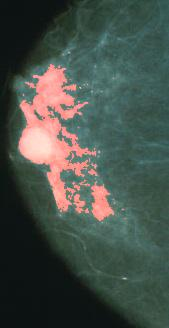
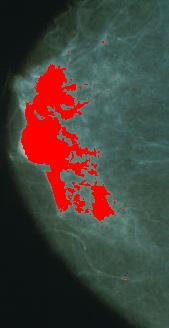
segmentacion se

Changed region(s): [[0.0888, 0.1524, 0.7396, 0.7012], [0.5917, 0.122, 0.6509, 0.1524]]

diff --git a/Segmentacion/deteccionCal.py b/Segmentacion/deteccionCal.py
@@ -1,0 +1,185 @@
+import cv2
+import numpy as np
+import argparse
+from skimage import io
+from skimage.exposure import equalize_hist
+from PIL import Image
+from scipy import ndimage
+
+
+def preProcesamiento(ruta):
+    img_orignal = ruta
+    # Carga la imagen original
+    imagen_original = cv2.imread(img_orignal, cv2.IMREAD_GRAYSCALE)
+    imagen_ecualizada = cv2.equalizeHist(imagen_original)
+
+    # Carga la imagen para crear la máscara
+    imagen = cv2.imread(img_orignal, cv2.IMREAD_GRAYSCALE)  # imagen de la que se crea la máscara
+
+    # Define el número de veces que quieres aplicar el filtro mínimo
+    num_repeticiones = 15
+
+    # Aplica el filtro mínimo repetidamente
+    for _ in range(num_repeticiones):
+        imagen = cv2.erode(imagen, np.ones((3, 3), np.uint8))
+
+    # Umbraliza la imagen
+    umbral = 30  # Puedes ajustar este valor según tus necesidades
+    imagen_umbralizada = cv2.threshold(imagen, umbral, 255, cv2.THRESH_BINARY)[1]
+
+    # cv2.imshow('nc', imagen_original)
+
+    # Aplica la máscara a la imagen a color
+    imagen_resultante = cv2.bitwise_and(imagen_ecualizada, imagen_ecualizada, mask=imagen_umbralizada)
+
+    # Guarda la imagen resultante
+    cv2.imwrite('imagen_resultante.jpg', imagen_resultante)
+
+    # Muestra la imagen original, la imagen umbralizada y la imagen resultante
+    # cv2.imshow('Imagen Original', imagen_original)
+    # cv2.imshow('Imagen Umbralizada', imagen_umbralizada)
+    # cv2.imshow('Imagen Resultante', imagen_resultante)
+    # cv2.waitKey(0)
+    # cv2.destroyAllWindows()
+
+    return imagen_umbralizada
+
+def segmentacion(ruta, rutaOriginal):
+    image = Image.open(ruta)
+
+    # Convertir a escala de grises
+    imgGrises = image.convert('L')
+
+    # Convertir la imagen PIL a un array de numpy
+    np_image = np.array(imgGrises)
+
+    # Crear la máscara binaria para el top 10% más brillante
+    p90_threshold = np.percentile(np_image, 90)
+    binary_mask = np_image > p90_threshold
+
+    # Identificar los componentes conectados
+    labeled_array, num_features = ndimage.label(binary_mask)
+
+    # Crear una máscara que será True para los componentes que deseamos mantener
+    mask = np.ones_like(labeled_array, dtype=bool)
+
+    # Iterar sobre cada componente conectado
+    for label_num in range(1, num_features + 1):
+        # Encontrar la posición de los píxeles que pertenecen a este componente
+        positions = np.argwhere(labeled_array == label_num)
+        
+        # Revisar si alguno de los píxeles está en el borde
+        touching_border = np.any(positions[:, 0] == 0) or \
+                        np.any(positions[:, 1] == 0) or \
+                        np.any(positions[:, 0] == labeled_array.shape[0] - 1) or \
+                        np.any(positions[:, 1] == labeled_array.shape[1] - 1)
+        
+        # Si el componente está tocando el borde, se excluye de la máscara
+        if touching_border:
+            mask[labeled_array == label_num] = False
+
+    # Aplicar la máscara para obtener la imagen final
+    final_image = binary_mask & mask
+
+    # Convertir la máscara binaria a una imagen PIL y guardarla
+    result_image = Image.fromarray((final_image * 255).astype(np.uint8))
+    result_image.save('imagen_umbralizada.png')
+
+    # Mostrar la imagen resultante
+    # plt.imshow(final_image, cmap='gray')
+    # plt.axis('off')
+    # plt.show()
+
+
+    # Cargar las imágenes
+    imagen1 = Image.open(rutaOriginal).convert("RGB")
+    imagen2 = Image.open("imagen_umbralizada.png").convert("RGB")
+
+    pixeles2 = imagen2.load()
+    for i in range(imagen2.size[0]):
+        for j in range(imagen2.size[1]):
+            if pixeles2[i, j] == (255, 255, 255):   # Blanco
+                pixeles2[i, j] = (255, 0, 0)        # Rojo
+
+    if imagen1.size != imagen2.size:
+        imagen2 = imagen2.resize(imagen1.size)
+
+    # Aplicar la operación OR
+    pixeles1 = imagen1.load()
+    pixeles2 = imagen2.load()
+
+    for i in range(imagen1.size[0]):
+        for j in range(imagen1.size[1]):
+            if pixeles2[i, j] == (255, 0, 0):
+                pixeles1[i, j] = (255, 0, 0)
+            
+
+    # Guardarla imagen resultante
+    imagen1.save("imagenSegmentada.jpg")
+
+    return 'imagen_umbralizada.png'
+
+
+def area_y_perimetro(image_path):
+    # Load the image and convert it to black and white
+    image = Image.open(image_path)
+    bw_image = image.convert('1')  # Convert to black-and-white (1 bit per pixel)
+
+    # Convert image to a numpy array
+    image_array = np.array(bw_image)
+
+    # Invert the image to consider white as the object for contour detection
+    inverted_image_array = np.invert(image_array)
+
+    # Find the contours of the white objects
+    contours, _ = cv2.findContours(inverted_image_array.astype(np.uint8), cv2.RETR_TREE, cv2.CHAIN_APPROX_SIMPLE)
+
+    # Calculate the area of the white regions
+    area = np.sum(inverted_image_array)
+
+    # Calculate the perimetro by summing the length of each contour
+    perimetro = sum(cv2.arcLength(cnt, True) for cnt in contours)
+
+    # Create a new black image to draw the contours
+    imagen_contorno = np.zeros(inverted_image_array.shape, dtype=np.uint8)
+
+    # Draw the contours on the new image
+    cv2.drawContours(imagen_contorno, contours, -1, 255, 1)
+
+    # Convert the new contour image to a PIL Image and save it with a new filename
+    contour_pil_image = Image.fromarray(imagen_contorno)
+    ruta_contorno = image_path.replace('.png', '_contours.png')
+    contour_pil_image.save(ruta_contorno)
+
+    return area, perimetro, ruta_contorno
+
+def main():
+    parser = argparse.ArgumentParser(description='Procesar una imagen.')
+    parser.add_argument('ruta', type=str, help='La ruta a la imagen que se procesará')
+    args = parser.parse_args()
+    ruta = args.ruta
+    original = cv2.imread(ruta)
+
+    img_umbralizada = preProcesamiento(ruta)
+    mascara_segmentacion = segmentacion('imagen_resultante.jpg', ruta)
+    area, perimetro, ruta_contorno = area_y_perimetro('imagen_umbralizada.png')
+    img_segmentada = 'imagenSegmentada.jpg'
+
+    areas = cv2.imread(mascara_segmentacion)
+    perimetros = cv2.imread(ruta_contorno)
+
+    img_segmentada = cv2.imread(img_segmentada)
+    
+    mediciones = np.hstack((areas, perimetros))
+    resultados = np.hstack((original, img_segmentada))
+
+    cv2.imshow('Resultados', resultados)
+    cv2.imshow('Mediciones', mediciones)
+    cv2.waitKey(0)
+    cv2.destroyAllWindows()
+
+
+
+
+
+main()

diff --git a/Segmentacion/segMin.py b/Segmentacion/segMin.py
@@ -1,0 +1,32 @@
+import cv2
+import numpy as np
+
+img_orignal = '1.jpg'
+# Carga la imagen a color
+imagen_color = cv2.imread(img_orignal)  # Asegúrate de que '1.jpg' es la ruta a tu imagen a color
+# Carga la imagen para crear la máscara
+imagen = cv2.imread(img_orignal, cv2.IMREAD_GRAYSCALE)  # '1.jpg' es la imagen de la que se crea la máscara
+
+# Define el número de veces que quieres aplicar el filtro mínimo
+num_repeticiones = 15
+
+# Aplica el filtro mínimo repetidamente
+for _ in range(num_repeticiones):
+    imagen = cv2.erode(imagen, np.ones((3, 3), np.uint8))
+
+# Umbraliza la imagen
+umbral = 30  # Puedes ajustar este valor según tus necesidades
+imagen_umbralizada = cv2.threshold(imagen, umbral, 255, cv2.THRESH_BINARY)[1]
+
+# Aplica la máscara a la imagen a color
+imagen_resultante = cv2.bitwise_and(imagen_color, imagen_color, mask=imagen_umbralizada)
+
+# Guarda la imagen resultante
+cv2.imwrite('imagen_resultante.jpg', imagen_resultante)
+
+# Muestra la imagen original, la imagen umbralizada y la imagen resultante
+cv2.imshow('Imagen Original', imagen_color)
+cv2.imshow('Imagen Umbralizada', imagen_umbralizada)
+cv2.imshow('Imagen Resultante', imagen_resultante)
+cv2.waitKey(0)
+cv2.destroyAllWindows()

diff --git a/Segmentacion/preProcesamiento.py b/Segmentacion/preProcesamiento.py
@@ -1,0 +1,41 @@
+import cv2
+import numpy as np
+from scipy import ndimage
+
+def procesar_imagen(ruta_imagen):
+    # Cargar la imagen
+    img = cv2.imread(ruta_imagen)
+
+    # Convertir a escala de grises
+    gris = cv2.cvtColor(img, cv2.COLOR_BGR2GRAY)
+
+    # Aplicar filtro mínimo 15 veces
+    for _ in range(15):
+        gris = cv2.erode(gris, None)
+
+    # Aplicar filtro mediana
+    mediana = cv2.medianBlur(gris, 9)
+
+    # Aplicar el filtro Sobel
+    dx = ndimage.sobel(mediana, axis=0)
+    dy = ndimage.sobel(mediana, axis=1)
+    sobel = np.hypot(dx, dy)
+    sobel = sobel / np.max(sobel)  # Normalización
+
+    # Convertir a formato de imagen en escala de grises
+    sobel = (sobel * 255).astype(np.uint8)
+
+    _, umbralizada = cv2.threshold(sobel, 5, 255, cv2.THRESH_BINARY)
+
+
+    return umbralizada
+
+# Usar la función con una ruta de imagen específica
+ruta_imagen = 'img_1_enfermo.jpg'
+imagen_procesada = procesar_imagen(ruta_imagen)
+
+# Guardar o mostrar la imagen resultante
+cv2.imwrite('imagen_procesada.jpg', imagen_procesada)
+cv2.imshow('Imagen Procesada', imagen_procesada)
+cv2.waitKey(0)
+cv2.destroyAllWindows()

diff --git a/Segmentacion/Segmentacion.py b/Segmentacion/Segmentacion.py
@@ -7,25 +7,24 @@ from scipy import ndimage
 import matplotlib.pyplot as plt
 
 # Cargar la imagen
+"""
 parser = argparse.ArgumentParser(description='Procesar una imagen.')
 parser.add_argument('image_path', type=str, help='La ruta a la imagen que se procesará')
 args = parser.parse_args()
 image_path = args.image_path
+"""
+image_path = 'imagen_resultante.jpg'
 image = Image.open(image_path)
+
 
 # Convertir a escala de grises
 imgGrises = image.convert('L')
-
-# Ecualizar la imagen
-imgGrises = equalize_hist(np.array(imgGrises))
-imgGrises = Image.fromarray((imgGrises * 255).astype(np.uint8))
-imgGrises.save('imgEcualizada.jpg')
 
 # Convertir la imagen PIL a un array de numpy
 np_image = np.array(imgGrises)
 
 # Crear la máscara binaria para el top 10% más brillante
-p90_threshold = np.percentile(np_image, 90)
+p90_threshold = np.percentile(np_image, 95)
 binary_mask = np_image > p90_threshold
 
 # Identificar los componentes conectados
